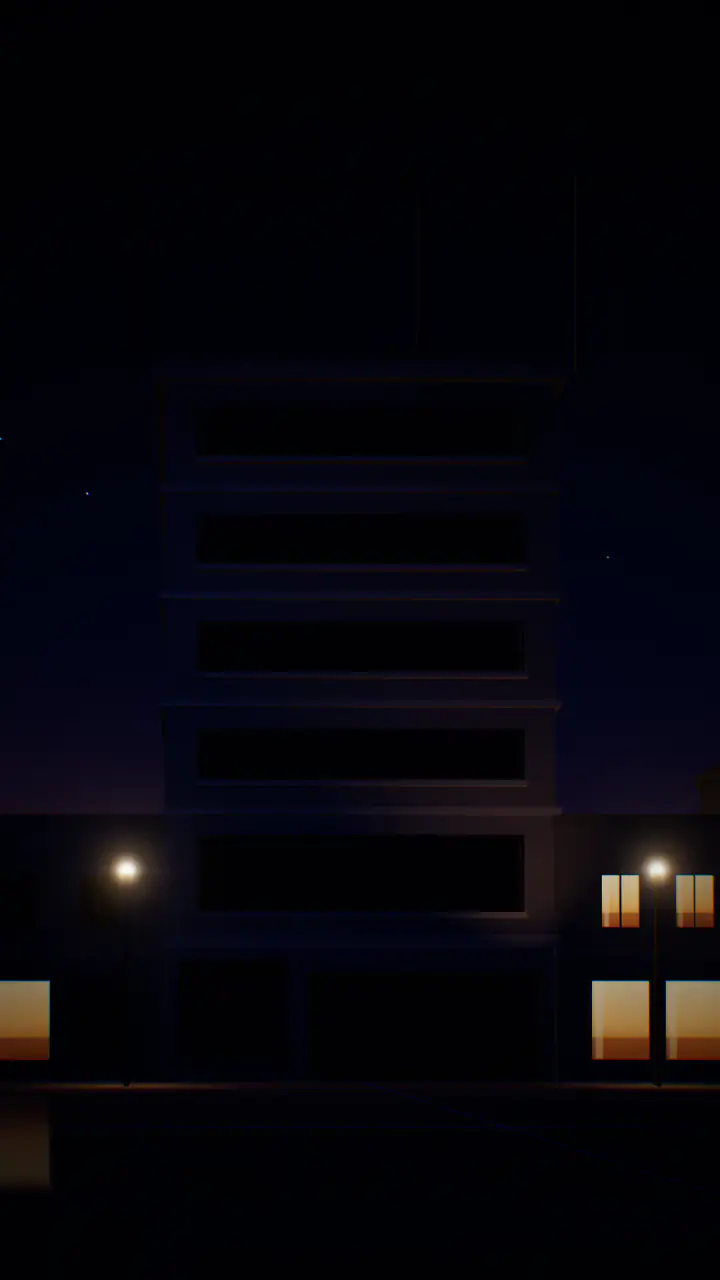
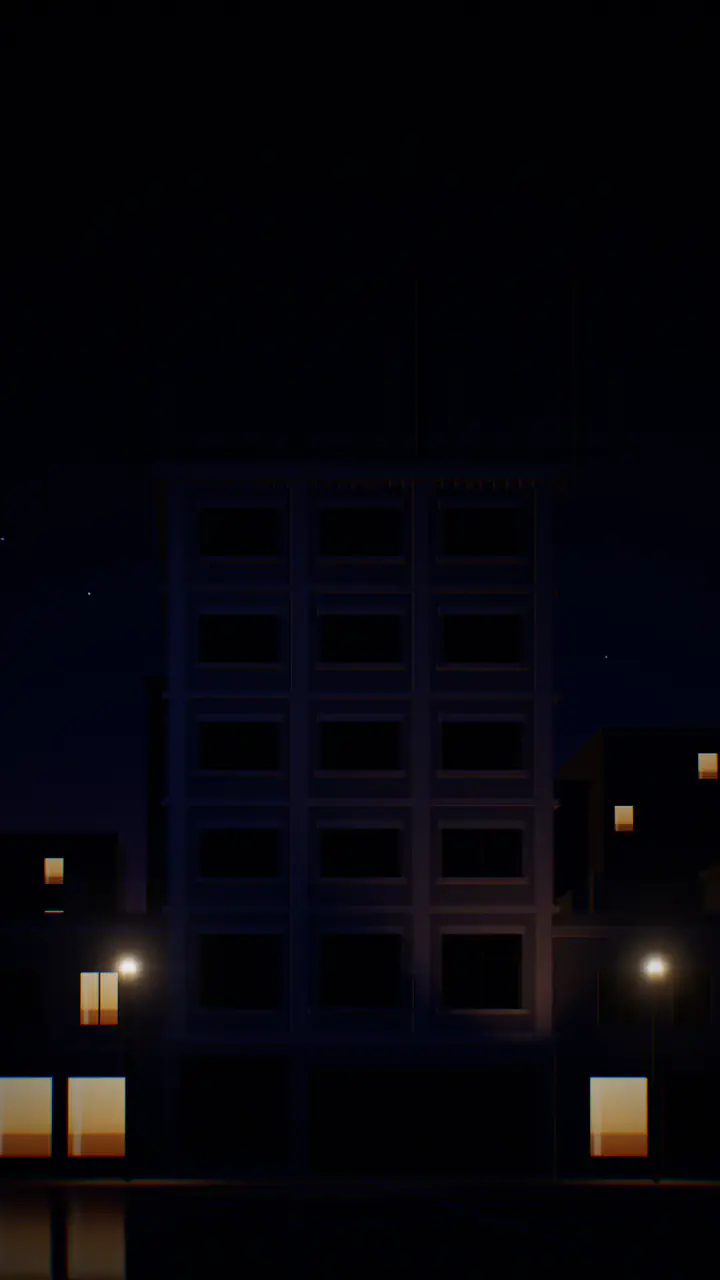
Kontakt (u izradi): nova scena – kuća u lijevoj trećini, tri prozora po etaži, dublji grad
Pilastri, natprozornici, zubci vijenca i francuski balkon; stražnji niz zgrada za
siluetu; signal konkatedrale lijevo od kuće jer je desno forma. Predložak heroja
slijedi u idućem commitu.

Claude-Session: https://claude.ai/code/session_01EBJNRh6SHEsbCwPCff8kxm

diff --git a/tools/art/scenes/hero-kontakt.js b/tools/art/scenes/hero-kontakt.js
@@ -15,7 +15,7 @@ const FS = (p) => `/@fs${__ROOT__}/${p}`;
 const W = 12, D = 11, ZF = D / 2, GROUND = 4.4, CORNICE = 0.8;
 // etaže odozgo prema dolje = polja forme redom; [polje, visina etaže, visina prozora, parapet ispod prozora]
 export const FLOORS = [['ime', 3.3, 1.45, 0.95], ['kontakt', 3.3, 1.45, 0.95], ['djelatnost', 3.3, 1.45, 0.95], ['usluga', 3.3, 1.45, 0.95], ['poruka', 3.9, 2.25, 0.8]];
-const WIN = 9.8; // širina trake prozora
+const WIN_W = 2.3; // širina jednog prozora
 const SIGN = { w: 16.4, pad: 0.5, gap: 0.45, legs: 0.7 }; // natpis širi od kuće (prepust)
 export const SIGN_LINES = [['Recite nam čime', 'sans'], ['se ', 'sans', 'bavite.', 'serif']];
 
@@ -91,21 +91,25 @@ function roomTex(seed) {
 }
 
 /** Zgrada "vaš obrt": uska secesijska kamena kuća, pročelje prema kameri (z = +D/2). */
-/** Kuća: prizemlje (izlog + ulaz), pet etaža s po jednom trakom prozora, vijenac, konstrukcija natpisa. */
+/** Kuća: rustično prizemlje (izlog + ulaz), pet etaža s tri prozora između pilastara, vijenac sa zubcima,
+ *  francuski balkon na prvom katu, konstrukcija natpisa na krovu. */
+const BAYS = [-3.75, 0, 3.75]; // osi prozora
 function buildHouse(lit, L) {
   const g = new THREE.Group();
   const plaster = mat({ color: '#262931', rough: 0.88, metal: 0.02, env: 0.5 });
   const stone = mat({ color: '#3b3c42', rough: 0.8, env: 0.6 });
   const frame = mat({ color: '#121318', rough: 0.45, metal: 0.55 });
   const dark = mat({ color: '#07090f', rough: 0.06, metal: 0.6, env: 1.5 });
+  const iron = mat({ color: '#0e0f13', rough: 0.4, metal: 0.8 });
   g.add(box(W, L.top, D, plaster, 0, 0, 0));
-  // prizemlje: izlog lijevo, dvostruka staklena vrata desno
+  // prizemlje: rustika (vodoravne fuge), izlog lijevo, dvostruka staklena vrata desno
+  for (let k = 1; k <= 4; k++) g.add(box(W + 0.06, 0.05, 0.08, mat({ color: '#15161b', rough: 0.9 }), 0, (GROUND - 0.3) * (k / 5), ZF + 0.01));
   const shopW = L.shop.w, doorW = L.door.w;
   const shop = new THREE.Mesh(new THREE.PlaneGeometry(shopW, 2.9), lit ? mat({ color: '#000', emissive: '#ffffff', ei: 1.0, emissiveMap: shopTex(true), rough: 0.1 }) : dark);
-  shop.position.set(L.shop.cx, 0.7 + 1.45, ZF + 0.02);
+  shop.position.set(L.shop.cx, 0.7 + 1.45, ZF + 0.04);
   g.add(shop);
   const door = new THREE.Mesh(new THREE.PlaneGeometry(doorW, 3.1), lit ? mat({ color: '#000', emissive: '#ffcf96', ei: 0.75, rough: 0.2 }) : dark);
-  door.position.set(L.door.cx, 0.15 + 1.55, ZF + 0.02);
+  door.position.set(L.door.cx, 0.15 + 1.55, ZF + 0.04);
   g.add(door);
   for (const [cx, w, y, h] of [[L.shop.cx, shopW, 0.7, 2.9], [L.door.cx, doorW, 0.15, 3.1]]) {
     g.add(box(w + 0.3, 0.16, 0.22, frame, cx, y - 0.16, ZF + 0.06));
@@ -115,21 +119,35 @@ function buildHouse(lit, L) {
   }
   g.add(box(0.1, 3.1, 0.12, frame, L.door.cx, 0.15, ZF + 0.05)); // sredina dvokrilnih vrata
   g.add(box(W + 0.3, 0.3, D + 0.2, stone, 0, GROUND - 0.3, 0.05));
-  // etaže: vijenac + jedna traka prozora (u njoj stoji polje forme)
+  // pilastri od prizemlja do vijenca: uglovi i između prozora
+  for (const x of [-W / 2 + 0.35, -1.88, 1.88, W / 2 - 0.35]) g.add(box(0.5, L.top - CORNICE - GROUND, 0.16, stone, x, GROUND, ZF + 0.08));
+  // etaže: vijenac + tri prozora (cijela etaža se pali odjednom)
   for (const f of L.floors) {
     g.add(box(W + 0.3, 0.22, D + 0.2, stone, 0, f.y0 - 0.11, 0.05));
-    const glass = new THREE.Mesh(new THREE.PlaneGeometry(WIN, f.wh), lit
-      ? mat({ color: '#000', emissive: '#ffffff', ei: 0.85, emissiveMap: roomTex(f.i * 7 + 3), rough: 0.12 })
-      : dark);
-    glass.position.set(0, f.wy0 + f.wh / 2, ZF + 0.02);
-    g.add(glass);
-    g.add(box(WIN + 0.4, 0.18, 0.3, stone, 0, f.wy0 - 0.18, ZF + 0.1)); // klupčica
-    g.add(box(WIN + 0.24, 0.12, 0.18, frame, 0, f.wy0 + f.wh, ZF + 0.06));
-    g.add(box(0.12, f.wh, 0.18, frame, -WIN / 2 - 0.06, f.wy0, ZF + 0.06));
-    g.add(box(0.12, f.wh, 0.18, frame, WIN / 2 + 0.06, f.wy0, ZF + 0.06));
+    BAYS.forEach((bx, b) => {
+      const glass = new THREE.Mesh(new THREE.PlaneGeometry(WIN_W, f.wh), lit
+        ? mat({ color: '#000', emissive: '#ffffff', ei: 0.85, emissiveMap: roomTex(f.i * 7 + b * 3 + 3), rough: 0.12 })
+        : dark);
+      glass.position.set(bx, f.wy0 + f.wh / 2, ZF + 0.02);
+      g.add(glass);
+      g.add(box(WIN_W + 0.5, 0.16, 0.3, stone, bx, f.wy0 - 0.16, ZF + 0.1)); // klupčica
+      g.add(box(WIN_W + 0.34, 0.26, 0.2, stone, bx, f.wy0 + f.wh + 0.08, ZF + 0.08)); // natprozornik
+      g.add(box(WIN_W + 0.16, 0.08, 0.16, frame, bx, f.wy0 + f.wh, ZF + 0.06));
+      g.add(box(0.08, f.wh, 0.16, frame, bx - WIN_W / 2 - 0.04, f.wy0, ZF + 0.06));
+      g.add(box(0.08, f.wh, 0.16, frame, bx + WIN_W / 2 + 0.04, f.wy0, ZF + 0.06));
+      g.add(box(0.06, f.wh, 0.1, frame, bx, f.wy0, ZF + 0.05)); // srednja prečka
+      g.add(box(WIN_W, 0.06, 0.1, frame, bx, f.wy0 + f.wh * 0.68, ZF + 0.05)); // nadsvjetlo
+    });
+    // francuski balkon (prvi kat, srednji prozor)
+    if (f.field === 'poruka') {
+      g.add(box(WIN_W + 0.9, 0.12, 0.7, stone, 0, f.wy0 - 0.12, ZF + 0.35));
+      g.add(box(WIN_W + 0.9, 0.05, 0.05, iron, 0, f.wy0 + 0.95, ZF + 0.68));
+      for (let k = 0; k <= 12; k++) g.add(box(0.03, 0.95, 0.03, iron, -(WIN_W + 0.9) / 2 + ((WIN_W + 0.9) / 12) * k, f.wy0, ZF + 0.68));
+    }
   }
-  // vijenac i atika
+  // vijenac sa zubcima i atika
   g.add(box(W + 0.7, 0.5, D + 0.5, stone, 0, L.top - CORNICE, 0.1));
+  for (let k = 0; k < 30; k++) g.add(box(0.16, 0.18, 0.2, stone, -W / 2 + 0.2 + (W - 0.4) * (k / 29), L.top - CORNICE - 0.18, ZF + 0.12));
   g.add(box(W + 0.2, CORNICE - 0.5, D, plaster, 0, L.top - CORNICE + 0.5, 0));
   // konstrukcija natpisa na krovu: noge i dvije tanke rešetke (slova su HTML)
   const st = mat({ color: '#1a1c22', rough: 0.5, metal: 0.7 });
@@ -161,37 +179,67 @@ function layout() {
   return { floors, top, sign: { h, lines, SW }, shop: { cx: -W / 2 + 0.55 + 3.1 / 2, w: 3.1 }, door: { cx: W / 2 - 0.55 - 6.9 / 2, w: 6.9 } };
 }
 
-function row(scene, x0, z0, side, st, bp) {
-  const R = rng(side > 0 ? 21 : 22);
-  const walls = ['#1d1f26', '#22232a', '#1a1c22'];
+function row(scene, x0, z0, side, st, bp, { litP = 1, seed = 0, n = 6 } = {}) {
+  const R = rng((side > 0 ? 21 : 22) + seed);
+  const walls = ['#1d1f26', '#22232a', '#1a1c22', '#1f2129'];
   const roof = mat({ color: '#121319', rough: 0.85 });
   const stone = mat({ color: '#2c2d33', rough: 0.85 });
   let x = x0;
-  for (let i = 0; i < 6; i++) {
-    const floors = 2 + Math.floor(R() * 2);
+  for (let i = 0; i < n; i++) {
+    const floors = 2 + Math.floor(R() * 3);
     const w = 7.5 + R() * 5, h = 4 + (floors - 1) * 3.2 + 0.6, d = 10 + R() * 4;
     const cx = x + (side * w) / 2;
     const zc = z0 - d / 2 + D / 2;
-    const m1 = box(w, h, d, mat({ color: walls[i % 3], rough: 0.9, env: 0.4 }), cx, 0, zc);
+    const m1 = box(w, h, d, mat({ color: walls[i % 4], rough: 0.9, env: 0.4 }), cx, 0, zc);
     const m2 = box(w + 0.3, 0.4, d + 0.3, roof, cx, h, zc);
     scene.add(m1, m2);
     bp.edges(m2, 28);
+    // krov: dimnjaci, ponegdje atika ili strojarnica
+    const nc = 1 + Math.floor(R() * 3);
+    for (let c = 0; c < nc; c++) scene.add(box(0.6, 1 + R() * 0.8, 0.6, roof, cx + (R() - 0.5) * (w - 1.5), h + 0.4, zc + (R() - 0.5) * (d - 2)));
+    if (R() < 0.35) scene.add(box(w * 0.4, 1.4, d * 0.4, roof, cx + (R() - 0.5) * w * 0.3, h + 0.4, zc - d * 0.15));
     // vijenac i prozori po etažama; prizemlje: izlog ili vrata
     const g = new THREE.Group();
     g.position.set(cx, 0, z0 + D / 2);
     scene.add(g);
     g.add(box(w + 0.2, 0.18, 0.3, stone, 0, 4 - 0.1, 0.1));
-    const n = Math.max(2, Math.floor(w / 2.6));
+    g.add(box(w + 0.35, 0.3, 0.4, stone, 0, h - 0.35, 0.12));
+    const nw = Math.max(2, Math.floor(w / 2.6));
     const span = w - 1.6;
     for (let f = 0; f < floors; f++) {
       const y = f === 0 ? 1.9 : 4 + (f - 1) * 3.2 + 1.55;
-      for (let k = 0; k < n; k++) {
-        const on = R() < (f === 0 ? 0.45 : 0.38);
+      for (let k = 0; k < nw; k++) {
+        const on = R() < (f === 0 ? 0.45 : 0.38) * litP;
         const lit = on ? 0.22 + R() * 0.3 : 0;
-        addWindow(g, null, { w: f === 0 ? span / n - 0.5 : 1.15, h: f === 0 ? 2.4 : 1.6, x: -span / 2 + (span / n) * (k + 0.5), y, z: 0.01, lit, frame: '#16171c', depth: 0.1, mullion: f > 0 });
+        addWindow(g, null, { w: f === 0 ? span / nw - 0.5 : 1.15, h: f === 0 ? 2.4 : 1.6, x: -span / 2 + (span / nw) * (k + 0.5), y, z: 0.01, lit, frame: '#16171c', depth: 0.1, mullion: f > 0 });
       }
     }
     x += side * (w + 0.05);
+  }
+}
+
+/** Stražnji niz: više zgrade iza krovova, rijetki upaljeni prozori — dubina i silueta grada. */
+function backRow(scene, { from = -140, to = 160, z = -48, seed = 5, litP = 1 } = {}) {
+  const R = rng(seed);
+  const wall = mat({ color: '#15171d', rough: 0.92, env: 0.3 });
+  const roof = mat({ color: '#0f1015', rough: 0.85 });
+  for (let x = from; x < to;) {
+    const w = 9 + R() * 10, floors = 6 + Math.floor(R() * 5), h = floors * 3.1, d = 12;
+    const cx = x + w / 2;
+    scene.add(box(w, h, d, wall, cx, 0, z));
+    scene.add(box(w + 0.3, 0.35, d + 0.3, roof, cx, h, z));
+    if (R() < 0.5) scene.add(box(1.2, 2.2, 1.2, roof, cx + (R() - 0.5) * w * 0.6, h + 0.35, z));
+    const g = new THREE.Group();
+    g.position.set(cx, 0, z + d / 2);
+    scene.add(g);
+    const cols = Math.max(2, Math.floor(w / 2.4));
+    for (let f = 1; f < floors; f++) {
+      for (let k = 0; k < cols; k++) {
+        if (R() > 0.16 * litP) continue;
+        addWindow(g, null, { w: 1.1, h: 1.5, x: -w / 2 + 1.2 + ((w - 2.4) / Math.max(1, cols - 1)) * k, y: f * 3.1 + 1.2, z: 0.01, lit: 0.18 + R() * 0.25, frame: '#121318', depth: 0.06, mullion: false });
+      }
+    }
+    x += w + 0.6 + R() * 2;
   }
 }
 
@@ -213,13 +261,15 @@ function make(mode, comp) {
       const L = layout();
       const crown = L.top + SIGN.legs + L.sign.h;
       // kadar: od natpisa do pločnika; na mobitelu prizemlje iznad donje trake za poziv
-      const dist = desk ? 58 : 52, ch = 1.6, camX = desk ? -9 : -5;
-      const [mTop, mBot] = desk ? [0.115, 0.085] : [0.12, 0.155];
+      // desktop: kuća u lijevoj trećini (desno je forma), mobitel: u sredini, natpis ispod zaglavlja
+      const dist = desk ? 58 : 52, ch = 1.6, camX = desk ? -9 : -5, bx = desk ? 0.3 : 0.5;
+      const [mTop, mBot] = desk ? [0.115, 0.085] : [0.2, 0.08];
       const tTop = (crown - ch) / dist, tBot = -ch / dist;
       const R = (tTop - tBot) / (1 - mTop - mBot);
       const top = tTop + mTop * R, bottom = tBot - mBot * R;
       const half = ((top - bottom) * (WW / HH)) / 2, c0 = -camX / dist;
-      archCamera(camera, WW, HH, { pos: [camX, ch, ZF + dist], top, bottom, left: c0 - half, right: c0 + half });
+      const left = c0 - 2 * half * bx;
+      archCamera(camera, WW, HH, { pos: [camX, ch, ZF + dist], top, bottom, left, right: left + 2 * half });
       st.skyMesh.position.copy(camera.position);
       scene.fog.density = 0.004;
       st.sky.uAz.value = -2.5;
@@ -230,7 +280,7 @@ function make(mode, comp) {
       // konkatedrala daleko iza krovova: vidi se samo signal na nebu
       const cath = await loadCathedral();
       const c = cathedralMesh(cath.geo, cath.haloGeo, { win: 1.2, halo: 0.75 });
-      c.group.position.set(desk ? 330 : 150, 0, -760);
+      c.group.position.set(desk ? -75 : 150, 0, -760); // desktop: signal lijevo od kuće, desno je forma
       scene.add(c.group);
       c.group.updateMatrixWorld(true);
       // na mobitelu natpis zauzima cijelu širinu neba — signal bi presjekao slova, pa ga nema
@@ -240,13 +290,15 @@ function make(mode, comp) {
         beam.update({ b: 1, at: c.spire.clone().applyMatrix4(c.group.matrixWorld), unit: 1, camera, time: 3.2, pr: st.pr, alpha: 0.9 });
       }
       // susjedi u nizu (već svijetle) i kuća
-      row(scene, -W / 2 - 0.05, 0, -1, st, { edges() {} });
-      row(scene, W / 2 + 0.05, 0, 1, st, { edges() {} });
+      // desno od kuće je forma: niz je tamo niži i mirniji
+      row(scene, -W / 2 - 0.05, 0, -1, st, { edges() {} }, { n: 7 });
+      row(scene, W / 2 + 0.05, 0, 1, st, { edges() {} }, { n: 9, litP: desk ? 0.55 : 1 });
+      backRow(scene, { litP: desk ? 0.8 : 1 });
       const house = buildHouse(lit, L);
       scene.add(house);
       house.updateMatrixWorld(true);
       // ulica: svjetiljke uz pločnik
-      for (let k = -3; k <= 3; k++) {
+      for (let k = -3; k <= 6; k++) {
         const x = k * 15 + 8, z = ZF + 4.2;
         scene.add(box(0.16, 6, 0.16, mat({ color: '#15171c', metal: 0.6, rough: 0.4 }), x, 0, z));
         st.dots([{ p: [x, 6.1, z], c: '#ffd6a0', s: 1.4, k: 2.2 }]);
@@ -267,9 +319,10 @@ function make(mode, comp) {
       const sp = pxx(-L.sign.SW / 2, 0), sq = pxx(L.sign.SW / 2, 0), scale = (sq.x - sp.x) / L.sign.SW;
       st.meta = {
         w: WW, h: HH,
+        bx, cx: r3(P(0, 5).x),
         left: r3(P(-W / 2, 5).x), right: r3(P(W / 2, 5).x),
-        win: { left: r3(P(-WIN / 2, 5).x), right: r3(P(WIN / 2, 5).x) },
-        floors: L.floors.map((f) => ({ field: f.field, top: r3(P(0, f.y1).y), bottom: r3(P(0, f.y0).y), wtop: r3(P(0, f.wy0 + f.wh).y), wbottom: r3(P(0, f.wy0).y) })),
+        win: { left: r3(P(BAYS[0] - WIN_W / 2, 5).x), right: r3(P(BAYS[2] + WIN_W / 2, 5).x) },
+        floors: L.floors.map((f) => ({ field: f.field, top: r3(P(0, f.y1).y), bottom: r3(P(0, f.y0).y), wtop: r3(P(0, f.wy0 + f.wh).y), wbottom: r3(P(0, f.wy0).y), mid: r3(P(0, f.wy0 + f.wh / 2).y) })),
         ground: { top: r3(P(0, GROUND).y), bottom: r3(P(0, 0).y) },
         shop: { left: r3(P(L.shop.cx - L.shop.w / 2, 1).x), right: r3(P(L.shop.cx + L.shop.w / 2, 1).x), top: r3(P(0, 3.6).y), bottom: r3(P(0, 0.7).y) },
         door: { left: r3(P(L.door.cx - L.door.w / 2, 1).x), right: r3(P(L.door.cx + L.door.w / 2, 1).x), top: r3(P(0, 3.25).y), bottom: r3(P(0, 0.15).y) },
